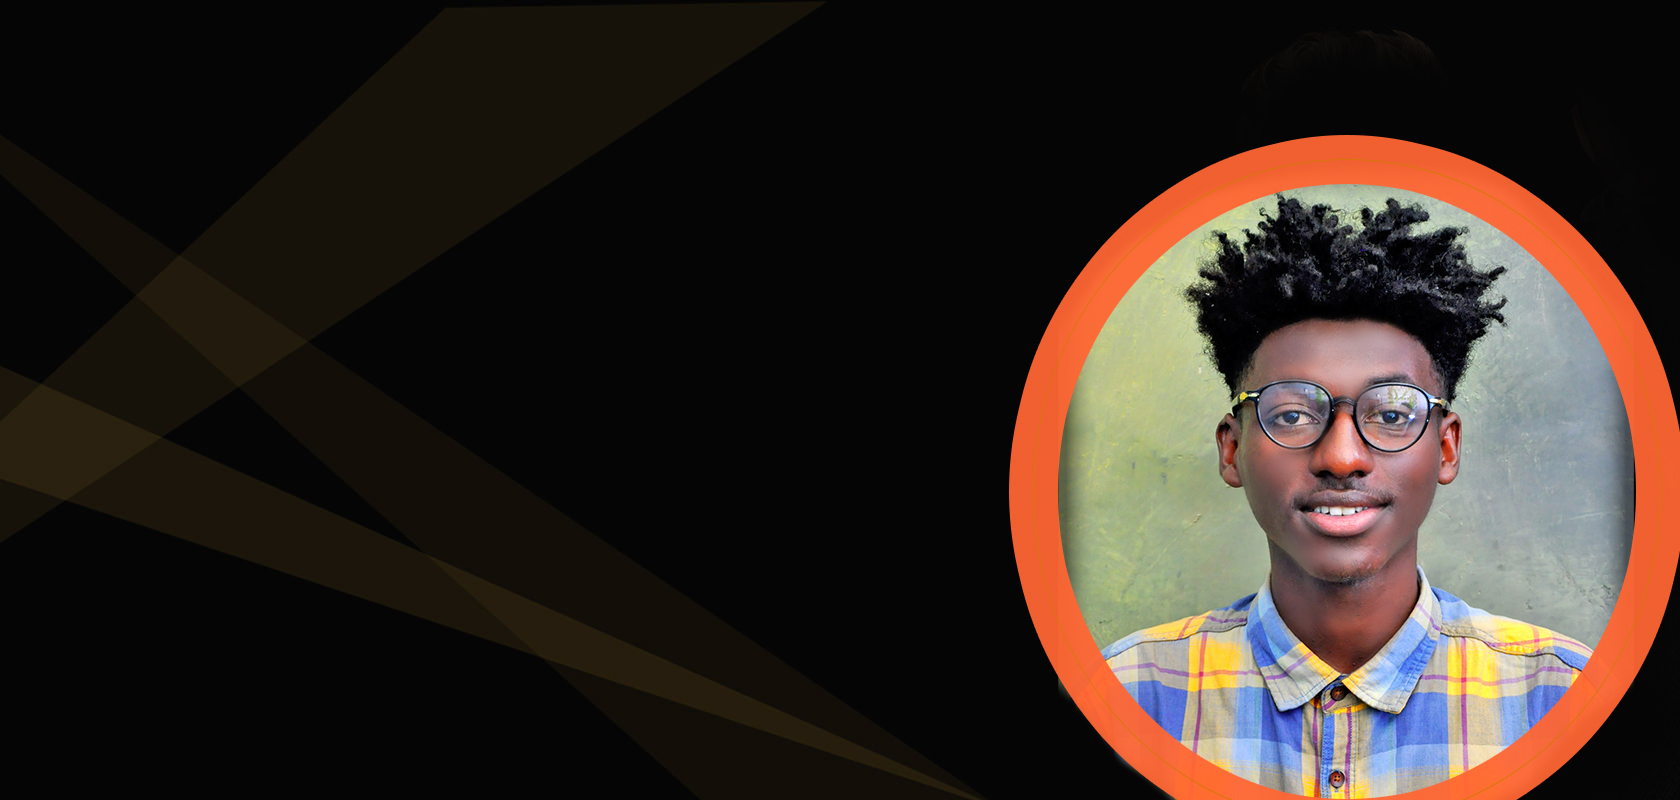
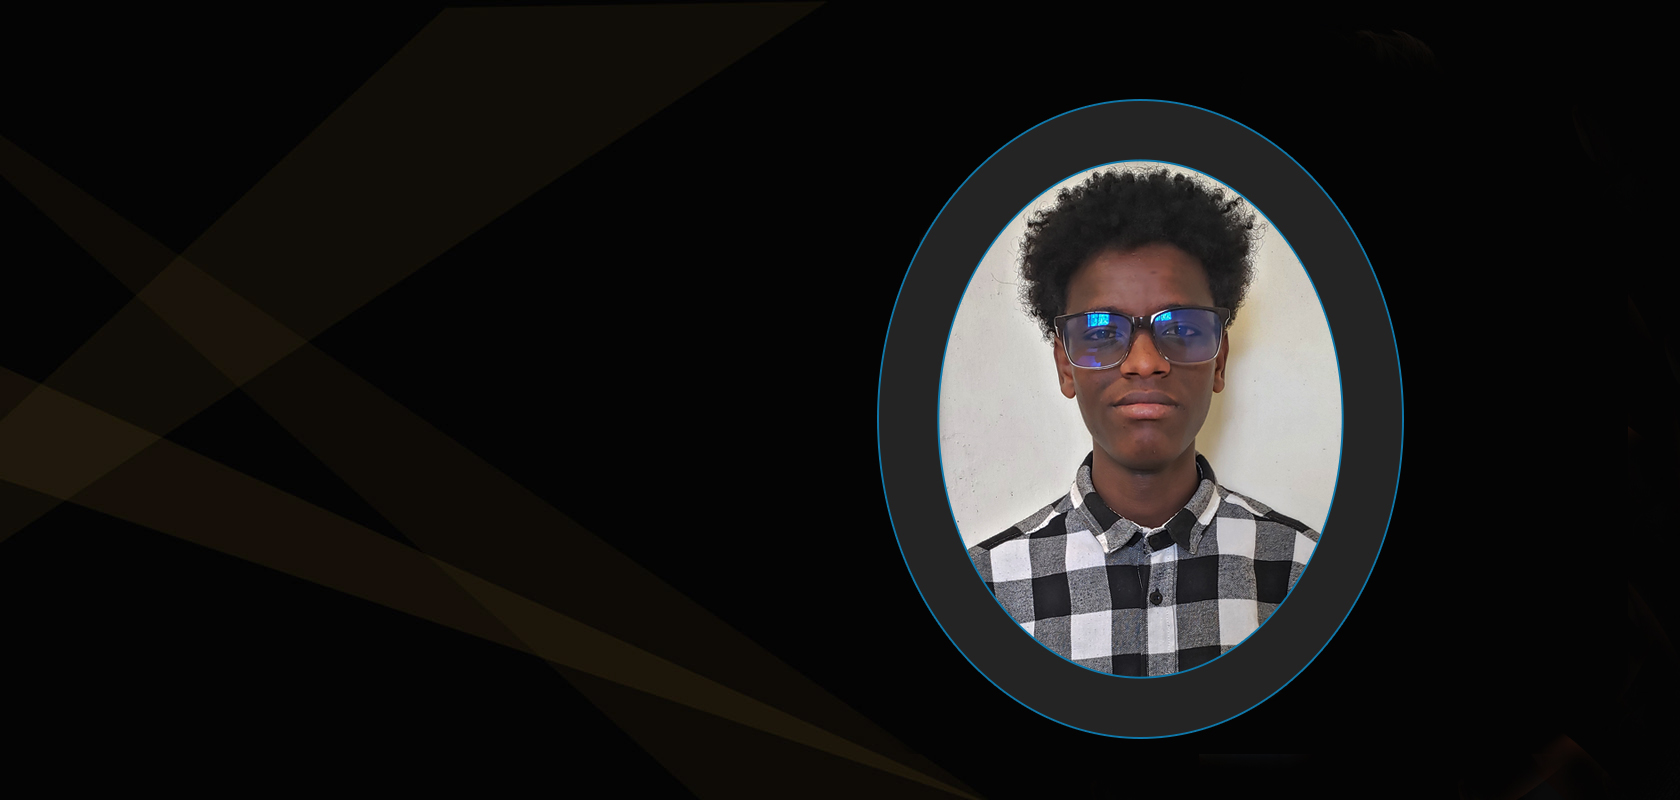
fdb-00

diff --git a/index.html b/index.html
@@ -25,7 +25,7 @@
         <nav class="navbar">
             <a href="#home" class="active">Home</a>
             <a href="#about">About Me</a>
-            <a href="#recent">Work</a>
+            <a href="#recent">Works</a>
             <a href="#services">Services</a>
             <a href="#contact">Contact</a>
         </nav>
@@ -43,8 +43,8 @@
                 My expertise lies in video editing, color grading, motion graphics, and visual effects.
             </P>
             <div class="btn-box">
-                <a href="#" class="btn">Hire Me</a>
-                <a href="#" class="btn">Let's Talk</a>
+                <a href="#contact" class="btn">Hire Me</a>
+                <a href="#contact" class="btn">Let's Talk</a>
             </div>
         </div>
         <div class="home-sci">
@@ -59,7 +59,7 @@
         <h2 class="heading">About <span>Me</span></h2>
 
         <div class="about-img">
-            <img src="../images/profile-55.jpg" alt="">
+            <img src="../images/spark.jpg" alt="">
             <span class="circle-spin"></span>
         </div>
         <div class="about-content">
@@ -102,29 +102,29 @@
         </div> -->
         <div class="video-row">
             <div class="video-column">
-                <video controls src="../images/4.mp4" ></video>
+                <video controls src="../videos/project 1.mp4" ></video>
                 <h1>video sample 1</h1>
             </div>
             <div class="video-column">
-                <video controls src="../images/4.mp4" ></video>
+                <video controls src="../videos/Athlete docmentary.mp4" ></video>
                 <h1>video sample 1</h1>
             </div>
             <div class="video-column">
-                <video controls src="../images/4.mp4" ></video>
+                <video controls src="../videos/Car Advertisment.mp4" ></video>
                 <h1>video sample 1</h1>
             </div>
         </div>
         <div class="video-row">
             <div class="video-column">
-                <video controls src="../images/4.mp4" ></video>
+                <video controls src="../videos/love story.mp4" ></video>
                 <h1>video sample 1</h1>
             </div>
             <div class="video-column">
-                <video controls src="../images/4.mp4" ></video>
+                <video controls src="../videos/Travel Advertisment.mp4" ></video>
                 <h1>video sample 1</h1>
             </div>
             <div class="video-column">
-                <video controls src="../images/4.mp4" ></video>
+                <video controls src="../videos/Athlete docmentary.mp4" ></video>
                 <h1>video sample 1</h1>
             </div>
         </div>
@@ -217,7 +217,7 @@
                             <i class="fas fa-user"></i>
                             <div class="info">
                                 <div class="head">Name</div>
-                                <div class="sub-title">Yihun Alemayehu</div>
+                                <div class="sub-title">Tedros Haymanot</div>
                             </div>
                         </div>
                         <div class="row">
@@ -231,14 +231,14 @@
                             <i class="fas fa-envelope"></i>
                             <div class="info">
                                 <div class="head">Email</div>
-                                <div class="sub-title">Yankure01@gmail.com</div>
+                                <div class="sub-title">tedrioshaymanot@gmail.com</div>
                             </div>
                         </div>
                         <div class="row">
                             <i class="fas fa-phone-alt"></i>
                             <div class="info">
                                 <div class="head">Phone Number</div>
-                                <div class="sub-title">+251982394038</div>
+                                <div class="sub-title">+251 928 359 056</div>
                             </div>
                         </div>
                     </div>
@@ -272,7 +272,7 @@
     <!-- footer design -->
     <footer class="footer">
         <div class="footer-text">
-            <p>Copyright &copy; 2024 by <a href="https://github.com/Yihun-Alemayehu"><span>Yihun</span></a> | All Rights Reserved</p>
+            <p>Created by <a href="https://github.com/Yihun-Alemayehu" target="_blank"><span>Yihun</span></a> | &copy; 2024 All Rights Reserved</p>
         </div>
         <div class="footer-iconTop">
             <a href="#home"><i class='bx bx-up-arrow-alt' ></i></a>

diff --git a/css/style.css b/css/style.css
@@ -244,8 +244,8 @@ span {
 
 .about-img {
      position: relative;
-     width: 25rem;
-     height: 25rem;
+     width: 50rem;
+     height: 50rem;
      border-radius: 50%;
      display: flex;
      justify-content: center;
@@ -331,7 +331,14 @@ span {
     border-radius: .8rem;
     border: .2rem solid var(--main-color); */
  }
+
+ .services-row .services-column p {
+    font-size: 1.5rem;
+ }
  
+ .services-row .services-column h1 {
+    font-size: 2.5rem;
+ }
 
  .contact {
     min-width: auto;
